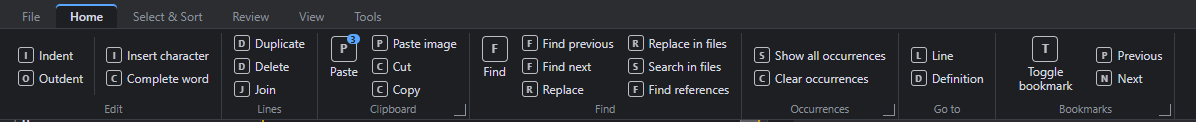
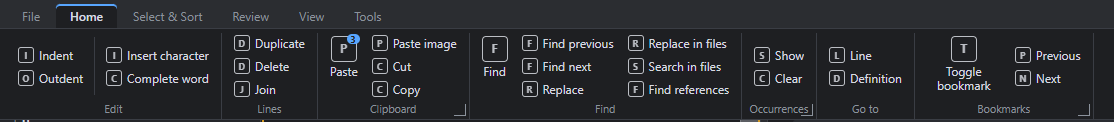
Plan 39: Occurrences' Show and Clear as short labels; Home measured again (1094 px)
Claude-Session: https://claude.ai/code/session_011ip4AMjLGVDRBeh8bEWE2k

diff --git a/docs/plans/39-PLAN-ribbon.md b/docs/plans/39-PLAN-ribbon.md
@@ -42,7 +42,7 @@ divider. "Corner": the action of the group's corner icon.
 | Lines | Duplicate + Delete + Join (Duplicate lines, Delete lines, Join lines) |
 | Clipboard | Paste (large; a number badge: the active clipboard) / Paste image + Cut + Copy. Corner: Manage clipboards |
 | Find | Find (large) / Find previous + Find next + Replace / Replace in files + Search in files + Find references |
-| Occurrences | Show all occurrences + Clear occurrences. Corner: Occurrences field (the bar opened, the cursor in its field) |
+| Occurrences | Show + Clear (Show all occurrences, Clear occurrences). Corner: Occurrences field (the bar opened, the cursor in its field) |
 | Go to | Line + Definition (Go to line, Go to definition) |
 | Bookmarks | Toggle unnumbered bookmark (large) / Previous + Next (Previous bookmark, Next bookmark). Corner: Manage bookmarks |
 
@@ -90,8 +90,8 @@ divider. "Corner": the action of the group's corner icon.
 - **Editor and Preview** are not on Home: they are the switches at the window's top right, and View > Document.
 - **Day / Night**: the two values of Day / night, each its own button, the current one pressed.
 - **Width**, measured in a mock (a test copy, LexPen's own font and the Dark theme, group names on, a 1264 px wide
-  window): File 233 px, Home 1176 px, Select & Sort 505 px, Review 146 px, View 712 px, Tools 779 px. Home's groups:
-  Edit 216, Lines 96, Clipboard 152, Find 273, Occurrences 157, Go to 98, Bookmarks 179; the ribbon 120 px high with its
+  window): File 233 px, Home 1094 px, Select & Sort 505 px, Review 146 px, View 712 px, Tools 779 px. Home's groups:
+  Edit 216, Lines 96, Clipboard 152, Find 273, Occurrences 75, Go to 98, Bookmarks 179; the ribbon 120 px high with its
   tabs. Every tab fits that window; a narrower one sends Home's right end into the ">>" menu.
 
 The mock, per tab (the icons are placeholders: a box with the label's first letter; the corner icon at the bottom
@@ -190,7 +190,7 @@ right of Clipboard, Occurrences, Bookmarks, Sort and Highlights):
 1. The name of the tab with Select, Sort and History: "Select & Sort" in the mock; or "Arrange", "Selection", or
    another?
 2. History (Undo, Redo) on that tab, as now, or on Home, where the actions used most are? Home has room for it
-   (1176 px of a 1264 px window, History 75 px), just.
+   (1094 px of a 1264 px window, History 75 px).
 3. Show all occurrences without opening the bar: for every value of the setting Show the Occurrences bar (Never,
    When an occurrence is active, Always), or only the button on the ribbon (the action as now for its key and the
    menu)? With "Always" the bar is there anyway.
